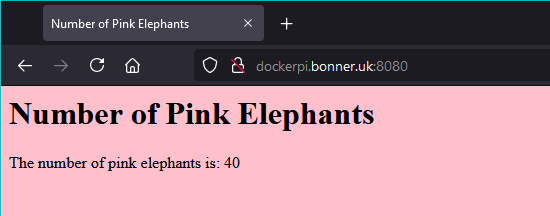
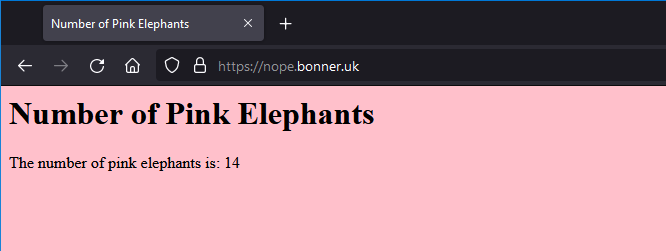
updated readme, new https screenshot

diff --git a/README.md b/README.md
@@ -1,14 +1,28 @@
-# "Number of Pink Elephants": Apache using Docker
-"Number of Pink Elephants"/"NOPE" is a small example Dockerfile project designed to teach (and serve as my own reference for) building, running and hosting Dockerfile images on Github and Docker Hub). Leveraging the publically-maintained httpd image and inserting some .html code, this project documents the process here while being publically available for others to utilise and/or fork.
+# NOPE / "Number of Pink Elephants"
+_Demonstrating Docker, Dive and httpd_
 
-> The "NOPE" container image/dockerfile project is available on my [Docker Hub](https://hub.docker.com/repository/docker/adambonneruk/nope).
+- [Introduction](#introduction)
+- [Docker](#docker)
+	- [Build](#build)
+	- [Run](#run)
+	- [Stop](#stop)
+- [Docker Hub](#docker-hub)
+- [Dive](#dive)
+	- [Unpacking the Docker Image with ```Dive```](#unpacking-the-docker-image-with-dive)
+- [Future Ideas](#future-ideas)
+- [Contributing to this Project](#contributing-to-this-project)
+- [Security Policy for this Project](#security-policy-for-this-project)
 
-The website is served via plain-http on port 8080 (image below). Refreshing the page will give a new random value between 1 and 100.
+---
+## Introduction
+"Number of Pink Elephants"/"NOPE" is a small example Dockerfile project designed to teach (and serve as my own reference for) building, running and hosting Dockerfile images on Github and Docker Hub. Leveraging the publically-maintained httpd image and inserting some .html code, this project documents the process here while being publically available for others to utilise and/or fork.
+
+The website is served via plain-http on port 80 (unlike the image below, this may need mapping). Refreshing the page will give a new random value between 1 and 100.
 
 ![](.screenshot/number-of-pink-elephants.png)
 
-## Usage
-
+---
+## Docker
 ### Build
 ```bash
 # optional - clone this repository
@@ -36,20 +50,27 @@ docker ps
 docker stop nope
 ```
 
-### [Docker Hub](https://hub.docker.com/repository/docker/adambonneruk/nope) _[in progress]_
+---
+## Docker Hub
+
+Docker Hub Project URL: https://hub.docker.com/repository/docker/adambonneruk/nope
+
 ```bash
 # build the image
 docker build -t adambonneruk/nope .
 
-
 # run the image
 docker run -p 8080:80 adambonneruk/nope:latest
+
 # push image to docker hub
 docker push adambonneruk/nope:latest
 ```
 
-## Unpacking the Docker Image with [```Dive```](https://github.com/wagoodman/dive)
+---
+## Dive
+### Unpacking the Docker Image with [```Dive```](https://github.com/wagoodman/dive)
 using the Dive tool, we can unpack the container image:
+
 ```bash
 # first install dive
 wget https://github.com/wagoodman/dive/releases/download/v0.9.2/dive_0.9.2_linux_amd64.deb
@@ -74,5 +95,14 @@ At the lowest level, we can see my index.html is copied onto the image:
 
 ![](.screenshot/dive-layers-3.png)
 
+---
 ## Future Ideas
 - Using PHP instead to load local/internal container IP address
+
+---
+## Contributing to this Project
+This project welcomes contributions of all types. We ask that before you start work on a feature that you would like to contribute, please read the [Contributor's Guide](.github/CONTRIBUTING.md).
+
+---
+## Security Policy for this Project
+This project seeks to build secure, versatile and robust portable software. If you find an issue, please report it following the [Security Policy](.github/SECURITY.md)
